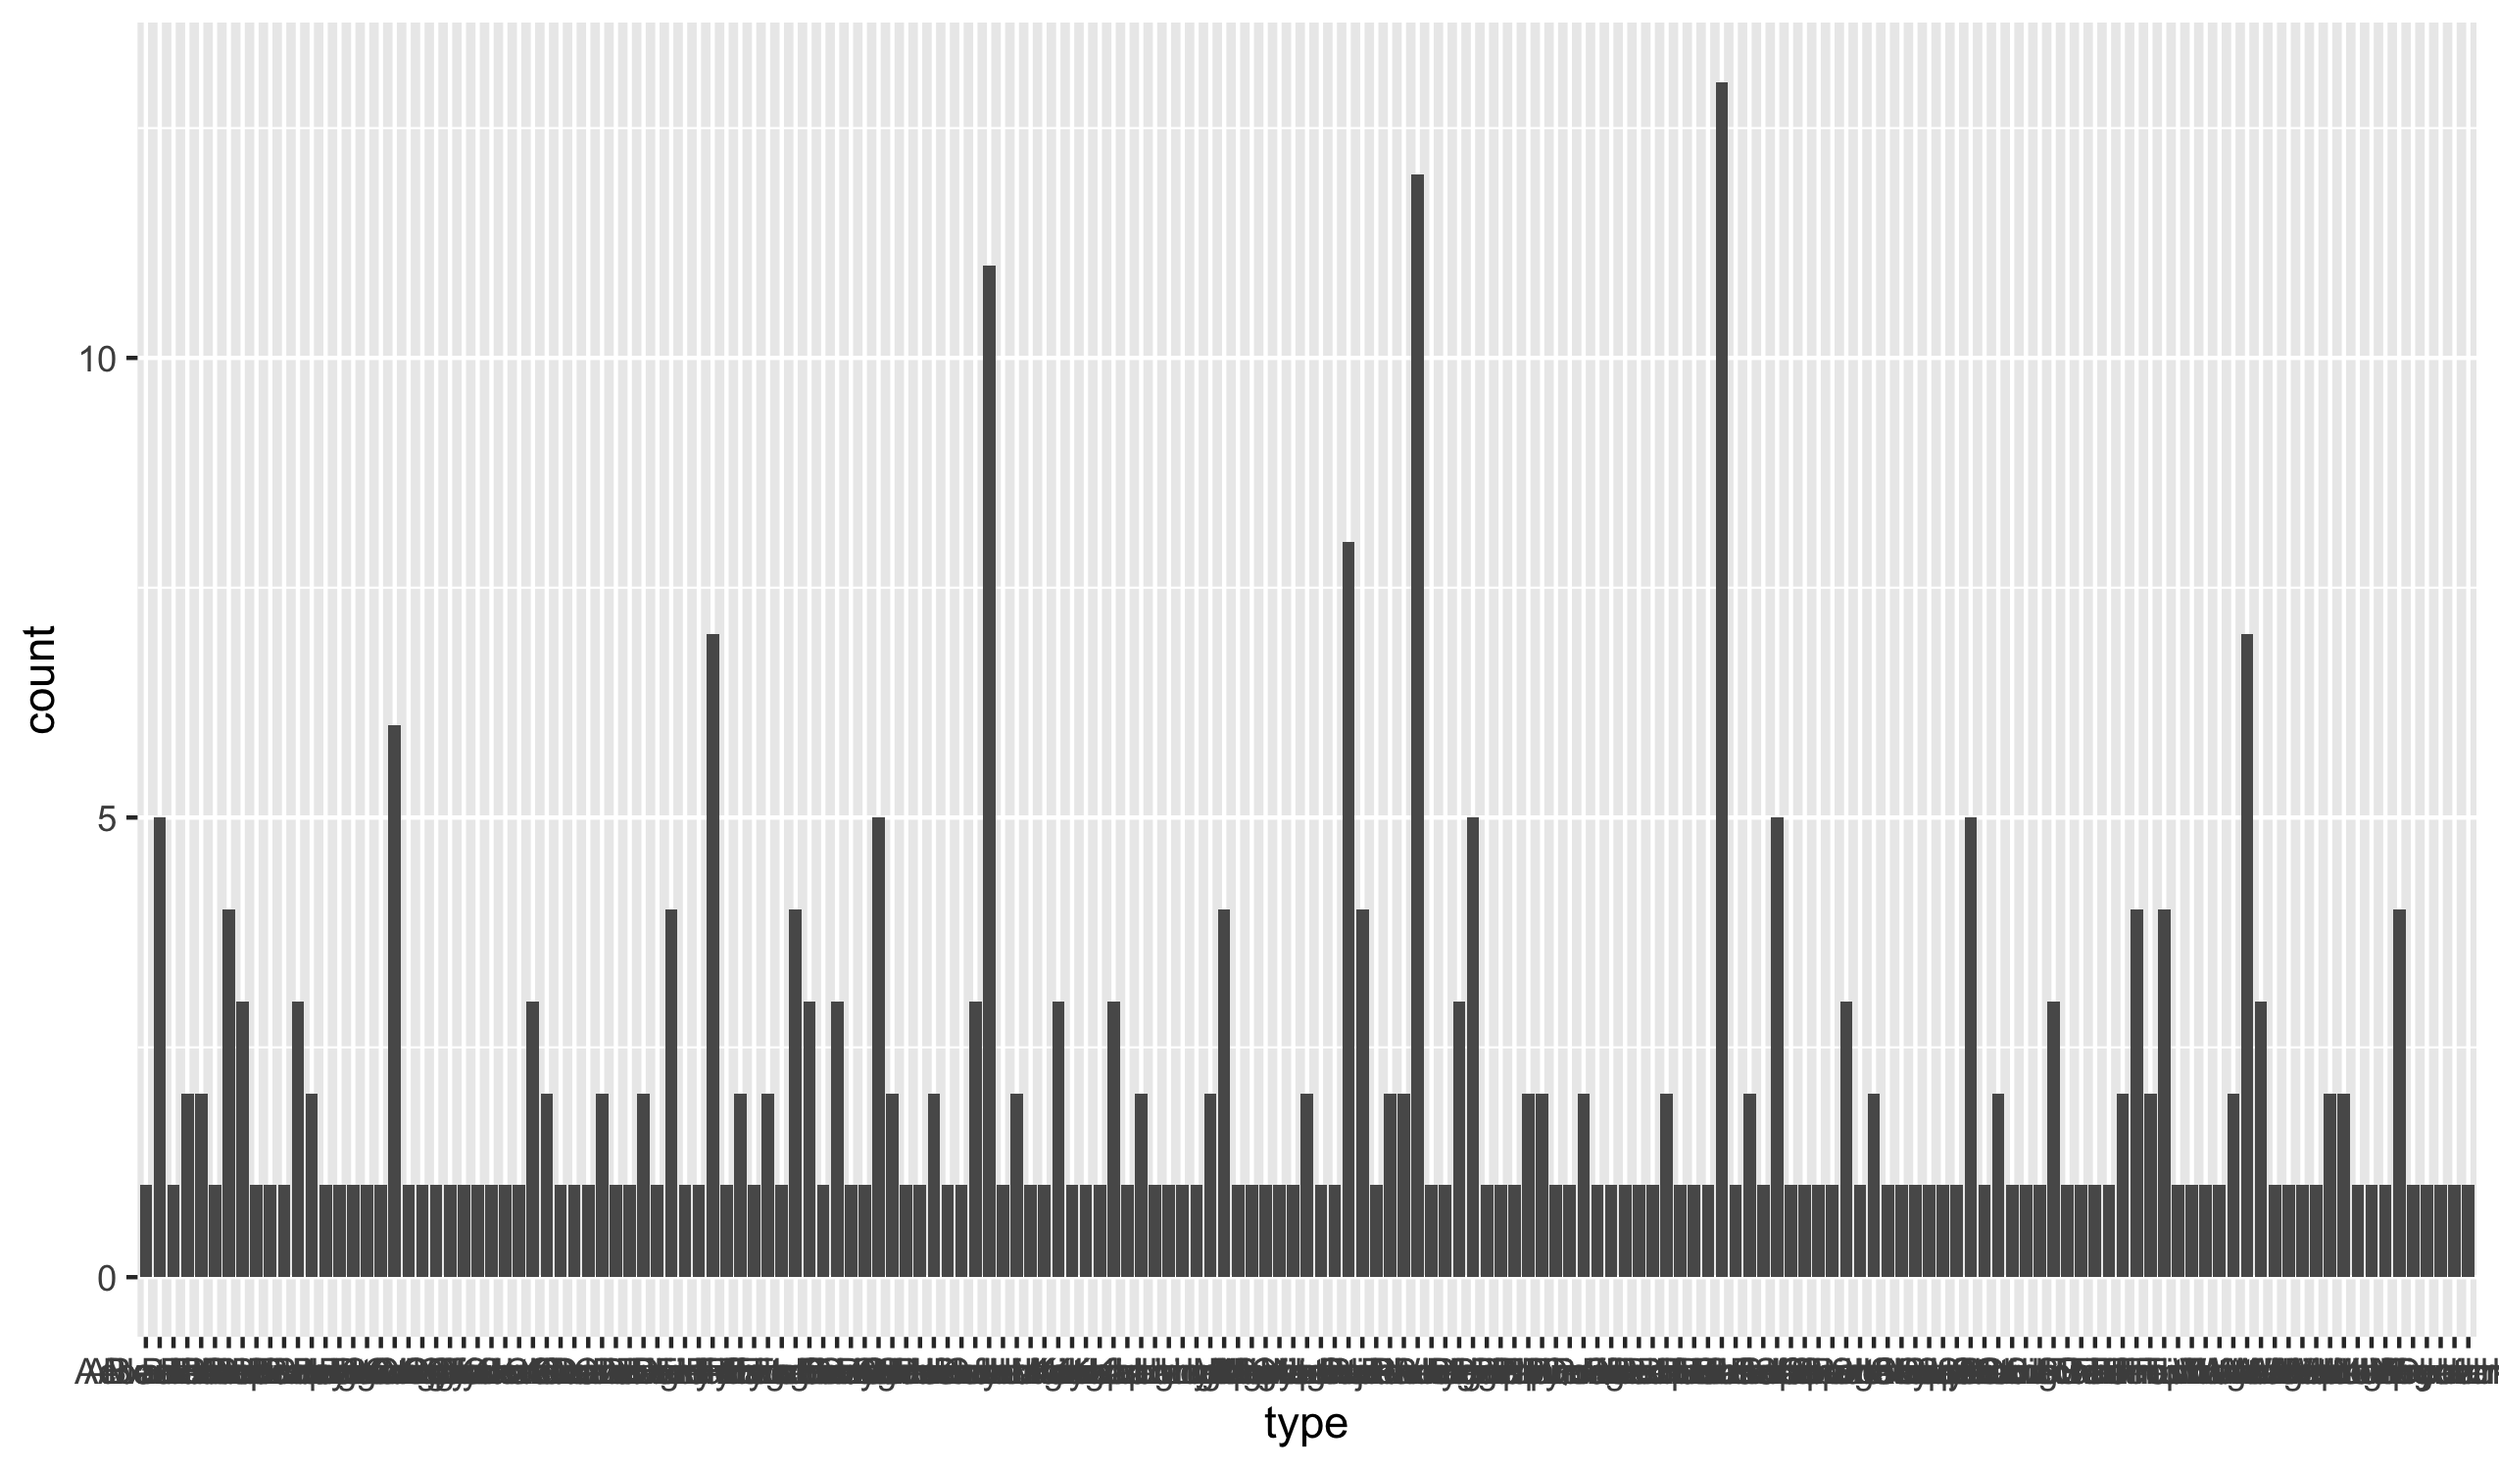
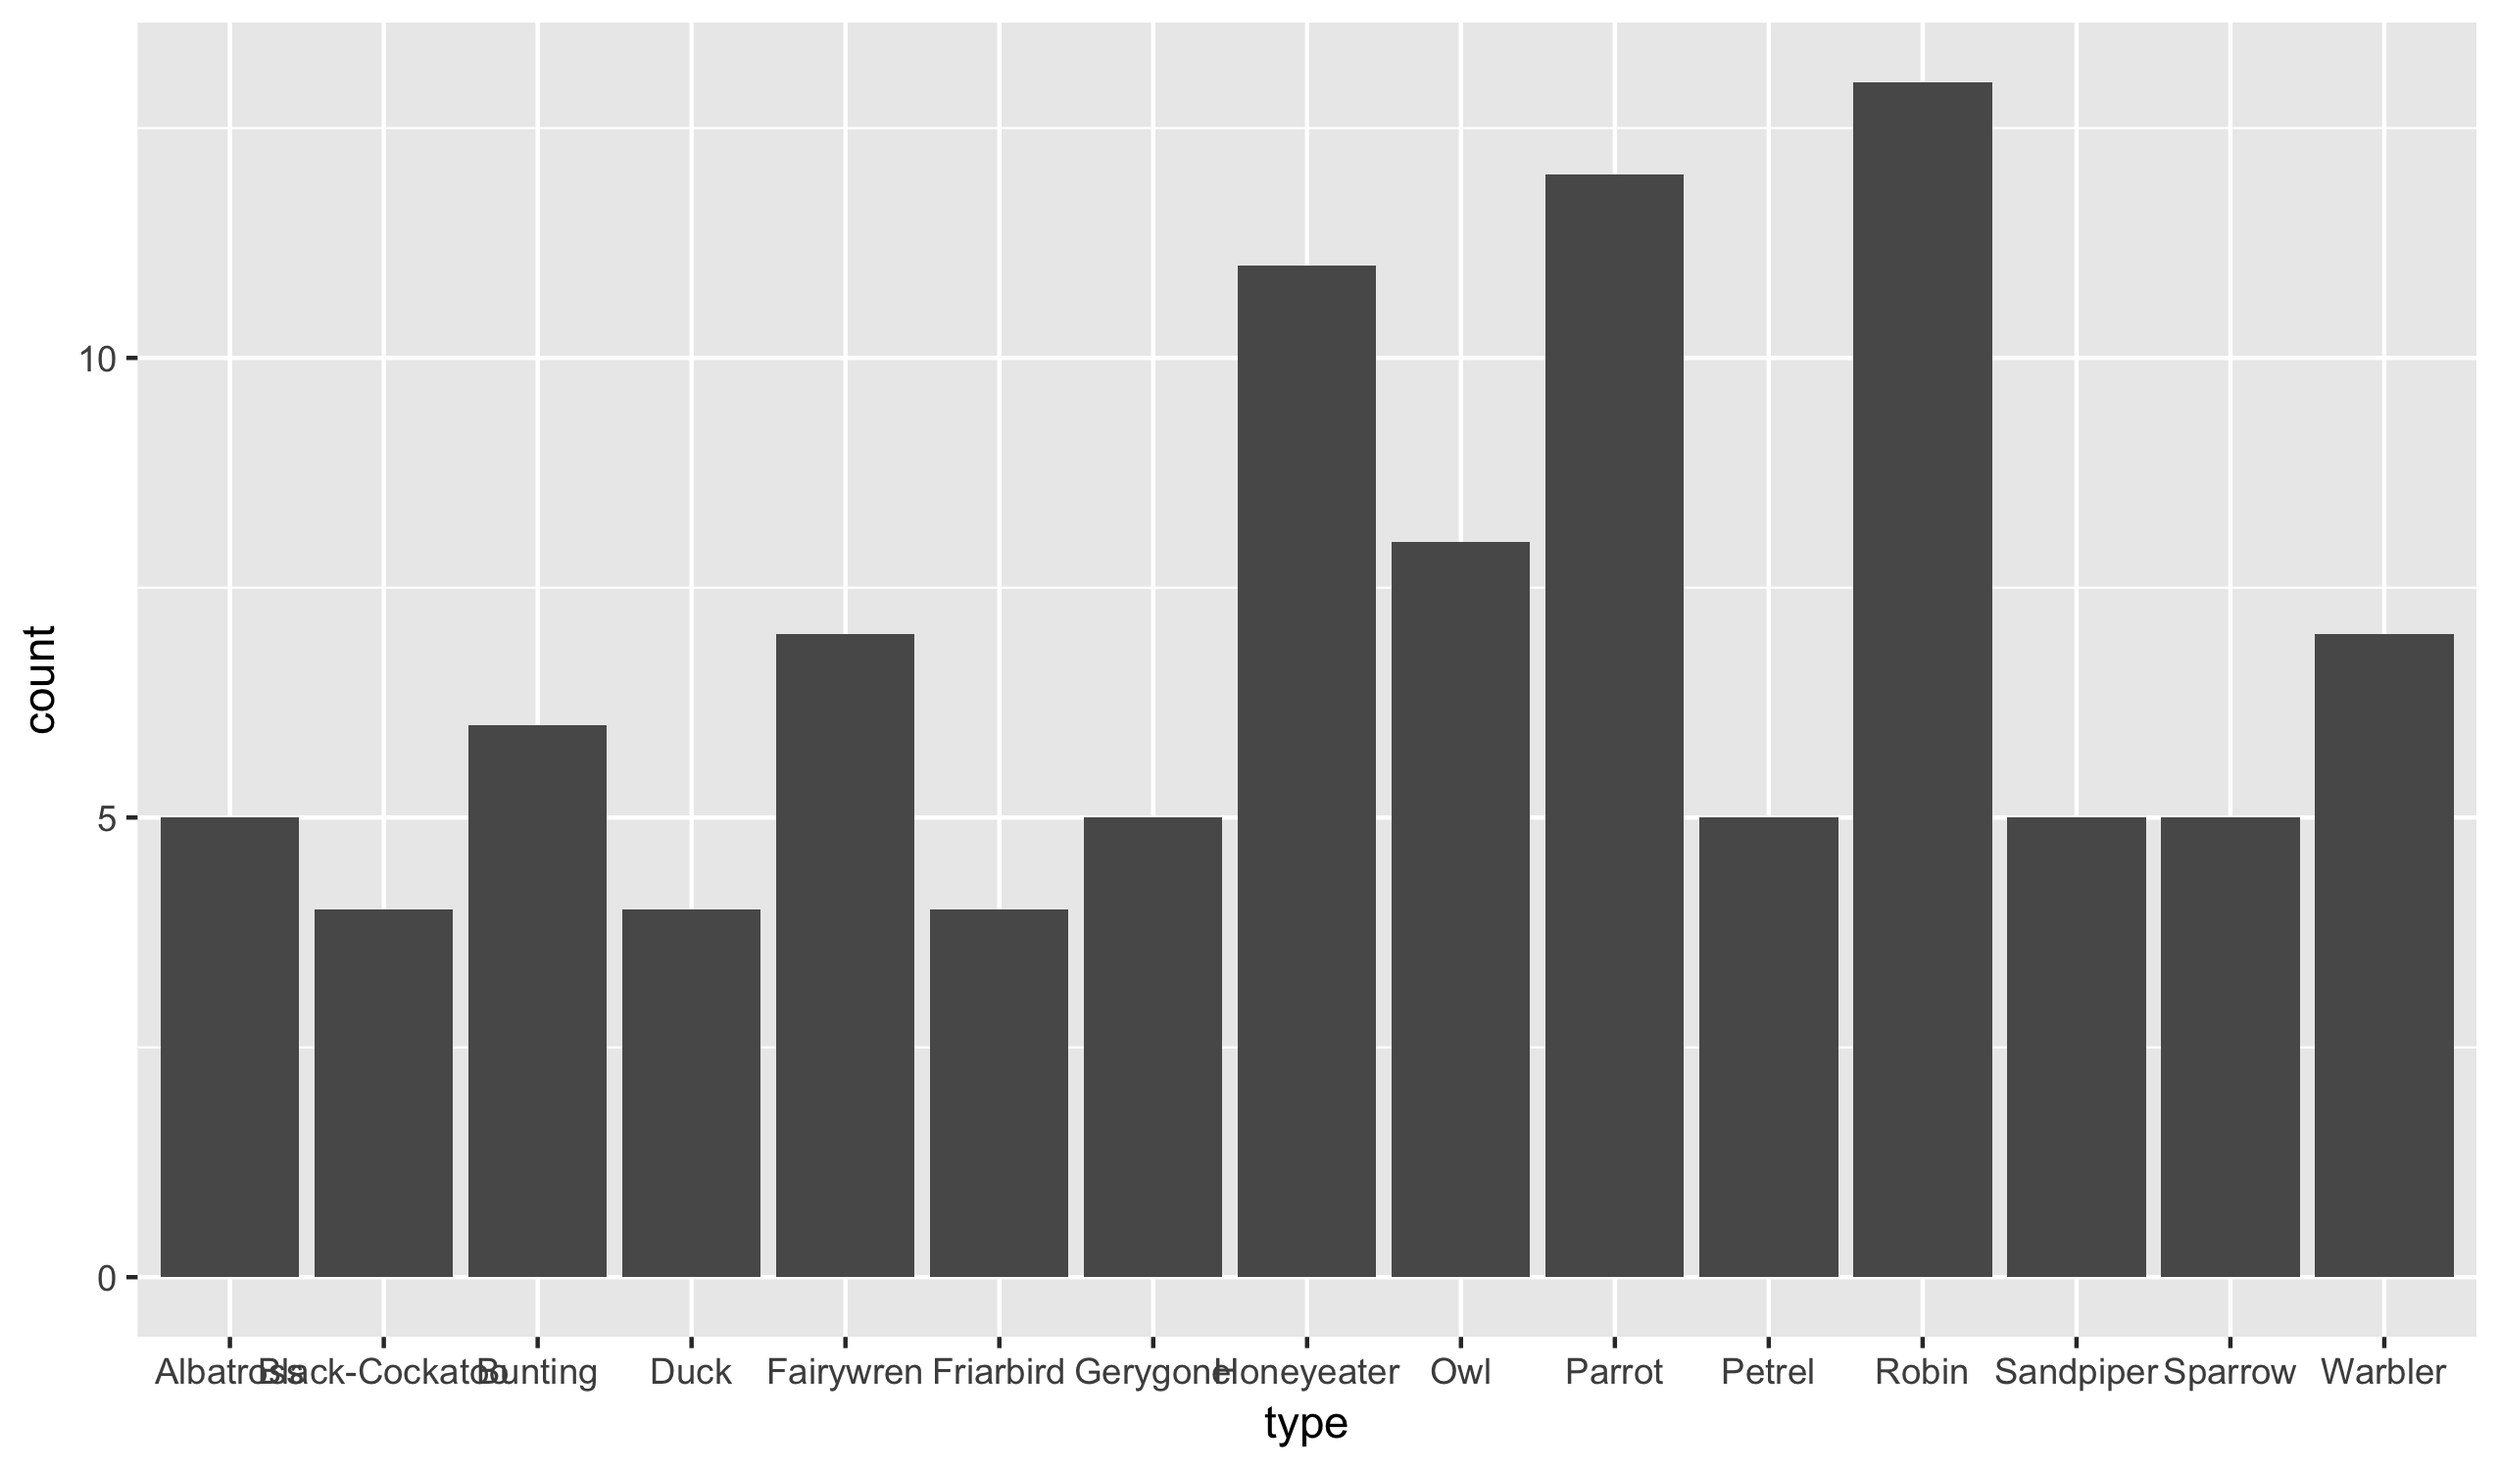
update notes

diff --git a/_notes/class03-variable-types.md b/_notes/class03-variable-types.md
@@ -41,90 +41,6 @@ birds <- read_csv("https://raw.githubusercontent.com/statsmaths/stat_data/gh-pag
    <td style="text-align:right;"> 2.20 </td>
   </tr>
 <tr>
-<td style="text-align:left;"> Acanthisitta </td>
-   <td style="text-align:left;"> chloris </td>
-   <td style="text-align:left;"> NA </td>
-   <td style="text-align:left;"> Rifleman </td>
-   <td style="text-align:right;"> 1.34 </td>
-   <td style="text-align:right;"> 5.6 </td>
-   <td style="text-align:right;"> 2 </td>
-   <td style="text-align:right;"> 1 </td>
-   <td style="text-align:right;"> 2 </td>
-   <td style="text-align:right;"> 4.00 </td>
-  </tr>
-<tr>
-<td style="text-align:left;"> Acanthiza </td>
-   <td style="text-align:left;"> chrysorrhoa </td>
-   <td style="text-align:left;"> Yellow-rumped </td>
-   <td style="text-align:left;"> Thornbill </td>
-   <td style="text-align:right;"> 1.44 </td>
-   <td style="text-align:right;"> 9.4 </td>
-   <td style="text-align:right;"> 2 </td>
-   <td style="text-align:right;"> 1 </td>
-   <td style="text-align:right;"> 1 </td>
-   <td style="text-align:right;"> 3.50 </td>
-  </tr>
-<tr>
-<td style="text-align:left;"> Acanthiza </td>
-   <td style="text-align:left;"> ewingii </td>
-   <td style="text-align:left;"> Tasmanian </td>
-   <td style="text-align:left;"> Thornbill </td>
-   <td style="text-align:right;"> 1.46 </td>
-   <td style="text-align:right;"> 7.2 </td>
-   <td style="text-align:right;"> 2 </td>
-   <td style="text-align:right;"> 1 </td>
-   <td style="text-align:right;"> 0 </td>
-   <td style="text-align:right;"> 3.50 </td>
-  </tr>
-<tr>
-<td style="text-align:left;"> Acanthiza </td>
-   <td style="text-align:left;"> lineata </td>
-   <td style="text-align:left;"> Striated </td>
-   <td style="text-align:left;"> Thornbill </td>
-   <td style="text-align:right;"> 1.32 </td>
-   <td style="text-align:right;"> 7.6 </td>
-   <td style="text-align:right;"> 2 </td>
-   <td style="text-align:right;"> 2 </td>
-   <td style="text-align:right;"> 0 </td>
-   <td style="text-align:right;"> 3.00 </td>
-  </tr>
-<tr>
-<td style="text-align:left;"> Acanthiza </td>
-   <td style="text-align:left;"> pusilla </td>
-   <td style="text-align:left;"> Brown </td>
-   <td style="text-align:left;"> Thornbill </td>
-   <td style="text-align:right;"> 1.40 </td>
-   <td style="text-align:right;"> 7.4 </td>
-   <td style="text-align:right;"> 2 </td>
-   <td style="text-align:right;"> 1 </td>
-   <td style="text-align:right;"> 2 </td>
-   <td style="text-align:right;"> 3.00 </td>
-  </tr>
-<tr>
-<td style="text-align:left;"> Acanthorhynchus </td>
-   <td style="text-align:left;"> superciliosus </td>
-   <td style="text-align:left;"> Western </td>
-   <td style="text-align:left;"> Spinebill </td>
-   <td style="text-align:right;"> 1.73 </td>
-   <td style="text-align:right;"> 10.5 </td>
-   <td style="text-align:right;"> 2 </td>
-   <td style="text-align:right;"> 3 </td>
-   <td style="text-align:right;"> 1 </td>
-   <td style="text-align:right;"> 1.56 </td>
-  </tr>
-<tr>
-<td style="text-align:left;"> Acrocephalus </td>
-   <td style="text-align:left;"> arundinaceus </td>
-   <td style="text-align:left;"> Great </td>
-   <td style="text-align:left;"> Reed-Warbler </td>
-   <td style="text-align:right;"> 3.15 </td>
-   <td style="text-align:right;"> 32.3 </td>
-   <td style="text-align:right;"> 3 </td>
-   <td style="text-align:right;"> 3 </td>
-   <td style="text-align:right;"> 1 </td>
-   <td style="text-align:right;"> 4.00 </td>
-  </tr>
-<tr>
 <td style="text-align:left;"> Aegolius </td>
    <td style="text-align:left;"> funereus </td>
    <td style="text-align:left;"> Boreal </td>
@@ -137,16 +53,100 @@ birds <- read_csv("https://raw.githubusercontent.com/statsmaths/stat_data/gh-pag
    <td style="text-align:right;"> 5.29 </td>
   </tr>
 <tr>
-<td style="text-align:left;"> Agelaius </td>
-   <td style="text-align:left;"> phoeniceus </td>
+<td style="text-align:left;"> Aimophila </td>
+   <td style="text-align:left;"> ruficeps </td>
+   <td style="text-align:left;"> Rufous-crowned </td>
+   <td style="text-align:left;"> Sparrow </td>
+   <td style="text-align:right;"> 2.90 </td>
+   <td style="text-align:right;"> 18.1 </td>
+   <td style="text-align:right;"> 2 </td>
+   <td style="text-align:right;"> 2 </td>
+   <td style="text-align:right;"> 1 </td>
+   <td style="text-align:right;"> 3.45 </td>
+  </tr>
+<tr>
+<td style="text-align:left;"> Ammodramus </td>
+   <td style="text-align:left;"> bairdii </td>
+   <td style="text-align:left;"> Baird's </td>
+   <td style="text-align:left;"> Sparrow </td>
+   <td style="text-align:right;"> 2.21 </td>
+   <td style="text-align:right;"> 18.9 </td>
+   <td style="text-align:right;"> 2 </td>
+   <td style="text-align:right;"> 2 </td>
+   <td style="text-align:right;"> 1 </td>
+   <td style="text-align:right;"> 4.55 </td>
+  </tr>
+<tr>
+<td style="text-align:left;"> Anas </td>
+   <td style="text-align:left;"> superciliosa </td>
+   <td style="text-align:left;"> Pacific Black </td>
+   <td style="text-align:left;"> Duck </td>
+   <td style="text-align:right;"> 63.00 </td>
+   <td style="text-align:right;"> 1059.0 </td>
+   <td style="text-align:right;"> 2 </td>
+   <td style="text-align:right;"> 2 </td>
+   <td style="text-align:right;"> 0 </td>
+   <td style="text-align:right;"> 11.00 </td>
+  </tr>
+<tr>
+<td style="text-align:left;"> Aprosmictus </td>
+   <td style="text-align:left;"> erythropterus </td>
    <td style="text-align:left;"> Red-winged </td>
-   <td style="text-align:left;"> Blackbird </td>
-   <td style="text-align:right;"> 3.95 </td>
-   <td style="text-align:right;"> 57.3 </td>
+   <td style="text-align:left;"> Parrot </td>
+   <td style="text-align:right;"> 11.50 </td>
+   <td style="text-align:right;"> 134.7 </td>
+   <td style="text-align:right;"> 2 </td>
+   <td style="text-align:right;"> 3 </td>
+   <td style="text-align:right;"> 1 </td>
+   <td style="text-align:right;"> 5.00 </td>
+  </tr>
+<tr>
+<td style="text-align:left;"> Asio </td>
+   <td style="text-align:left;"> flammeus </td>
+   <td style="text-align:left;"> Short-eared </td>
+   <td style="text-align:left;"> Owl </td>
+   <td style="text-align:right;"> 21.30 </td>
+   <td style="text-align:right;"> 278.0 </td>
+   <td style="text-align:right;"> 2 </td>
+   <td style="text-align:right;"> 5 </td>
+   <td style="text-align:right;"> 1 </td>
+   <td style="text-align:right;"> 5.60 </td>
+  </tr>
+<tr>
+<td style="text-align:left;"> Asio </td>
+   <td style="text-align:left;"> otus </td>
+   <td style="text-align:left;"> Long-eared </td>
+   <td style="text-align:left;"> Owl </td>
+   <td style="text-align:right;"> 23.00 </td>
+   <td style="text-align:right;"> 233.0 </td>
+   <td style="text-align:right;"> 2 </td>
    <td style="text-align:right;"> 4 </td>
+   <td style="text-align:right;"> 0 </td>
+   <td style="text-align:right;"> 3.00 </td>
+  </tr>
+<tr>
+<td style="text-align:left;"> Biziura </td>
+   <td style="text-align:left;"> lobata </td>
+   <td style="text-align:left;"> Musk </td>
+   <td style="text-align:left;"> Duck </td>
+   <td style="text-align:right;"> 128.00 </td>
+   <td style="text-align:right;"> 2398.0 </td>
+   <td style="text-align:right;"> 5 </td>
+   <td style="text-align:right;"> 1 </td>
+   <td style="text-align:right;"> 1 </td>
+   <td style="text-align:right;"> 2.80 </td>
+  </tr>
+<tr>
+<td style="text-align:left;"> Calamospiza </td>
+   <td style="text-align:left;"> melanocorys </td>
+   <td style="text-align:left;"> Lark </td>
+   <td style="text-align:left;"> Bunting </td>
+   <td style="text-align:right;"> 3.14 </td>
+   <td style="text-align:right;"> 36.1 </td>
+   <td style="text-align:right;"> 3 </td>
    <td style="text-align:right;"> 4 </td>
    <td style="text-align:right;"> 1 </td>
-   <td style="text-align:right;"> 3.28 </td>
+   <td style="text-align:right;"> 3.72 </td>
   </tr>
 </tbody>
 </table>
@@ -197,12 +197,12 @@ qplot(type, data = birds)
 
 
 {% highlight r %}
-birds$mating_system_chr <- as.character(birds$mating_system)
+birds$display_chr <- as.character(birds$display)
 {% endhighlight %}
 
 
 {% highlight r %}
-qplot(mating_system_chr, data = birds)
+qplot(display_chr, data = birds)
 {% endhighlight %}
 
 <img src="../assets/class03-variable-types/unnamed-chunk-7-1.png" title="plot of chunk unnamed-chunk-7" alt="plot of chunk unnamed-chunk-7" width="100%" />
@@ -211,22 +211,12 @@ qplot(mating_system_chr, data = birds)
 
 
 {% highlight r %}
-birds$male_mass_bin <- bin(birds$male_mass)
-{% endhighlight %}
-
-
-
-{% highlight text %}
-## Error in bin(birds$male_mass): could not find function "bin"
+birds$egg_mass_cut <- cut(birds$egg_mass, breaks = 4)
 {% endhighlight %}
 
 
 {% highlight r %}
-qplot(male_mass_bin, data = birds)
+qplot(egg_mass_cut, data = birds)
 {% endhighlight %}
 
-
-
-{% highlight text %}
-## Error in eval(aesthetics$x, data, env): object 'male_mass_bin' not found
-{% endhighlight %}
+<img src="../assets/class03-variable-types/unnamed-chunk-9-1.png" title="plot of chunk unnamed-chunk-9" alt="plot of chunk unnamed-chunk-9" width="100%" />

diff --git a/_notes/class00-setup.md b/_notes/class00-setup.md
@@ -90,7 +90,7 @@ longer. If you run into any problems, please let me know!
 {% highlight r %}
 pkgs <- c("dplyr", "ggplot2", "stringr", "ggmap", "ggrepel",
           "devtools", "viridis", "plotly", "jsonlite", "lazyeval",
-          "knitr", "readr")
+          "knitr", "readr", "forcats")
 
 install.packages(pkgs,
                  repos = "https://cloud.r-project.org",
